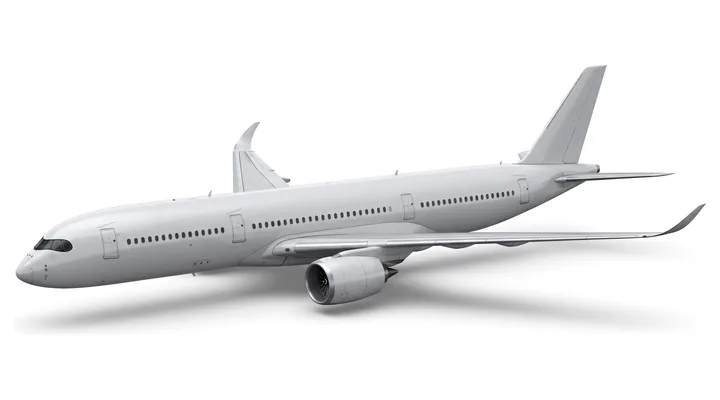
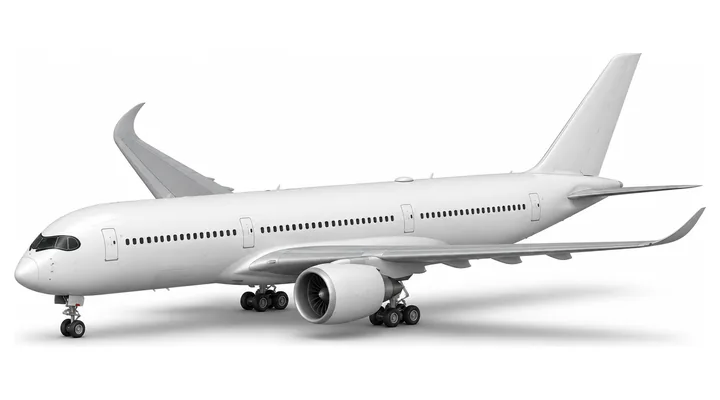
HQ 4.46.0: hide/show the menu; info boxes scroll; A350 picture with its wheels
Owner 11 Nov 18:58: "can the left hand menu be closable, with arrows to open it again";
19:01 "A floating plane" (the A350 picture had no landing gear; redone by the owner);
19:19 "I have to have my screen at 50% zoom to see it all on planes. Can all the click
to pop up info boxes have a scroll".
- A tab on the menu edge (wider screens) hides the menu so the map gets the whole
  width, and brings it back; remembered (localStorage tpa-menu-hidden). Phones keep
  their LAYERS menu.
- The box never grows past the top of the map: it scrolls inside, the close button
  stays in view (sticky), and it sits clear of the zoom buttons (PC and phone).
- New a350.webp (gear down).

Claude-Session: https://claude.ai/code/session_01NgCC8z8vDgBwHpiSMrLsLz

Changed region(s): [[0.0, 0.12, 0.9778, 0.87], [0.0917, 0.51, 0.1528, 0.54]]

diff --git a/v4/hq/assets/hq.css b/v4/hq/assets/hq.css
@@ -340,3 +340,20 @@ body.vector-ready .vector-map{z-index:4}
 /* 4.45.0: airport vehicles and towers - small, no frame (they only show close in) */
 .marker-layer .review-pin.air.k-ground{background:transparent;border:0;box-shadow:none;padding:0;width:28px;height:28px}
 .marker-layer .review-pin.air.k-ground .plane-pic{width:26px;height:26px;filter:drop-shadow(0 1px 2px #000a)}
+
+/* 4.46.0: hide / show the menu on wider screens (owner 11 Nov 18:58) */
+.menu-tab{position:absolute;left:0;top:50%;transform:translateY(-50%);z-index:1200;width:22px;height:64px;padding:0;border:1px solid #2a3b4c;border-left:0;
+  border-radius:0 9px 9px 0;background:#0d1a2ce8;color:#9fd8f0;font-size:12px;line-height:1;cursor:pointer;box-shadow:3px 0 12px #0006}
+.menu-tab:hover{background:#15283f;color:#fff}
+.menu-tab:focus-visible{outline:2px solid #fff;outline-offset:2px}
+@media(min-width:761px){.app.menu-hidden .sidebar{display:none}}
+@media(max-width:760px){.menu-tab{display:none}}
+
+/* 4.46.0 (owner 11 Nov 19:19: "I have to have my screen at 50% zoom to see it all on planes. Can all the click to pop up info
+   boxes have a scroll"): the box never grows past the top of the map - it scrolls inside, with the close button kept in view -
+   and on wider screens it sits clear of the zoom buttons. */
+.map-selection{max-height:calc(100% - 76px - 74px);overflow-y:auto;overscroll-behavior:contain;scrollbar-width:thin;scrollbar-color:#3b5a70 transparent}
+@media(min-width:761px){.map-selection{right:76px}}
+@media(max-width:760px){.map-selection{max-height:calc(100% - 60px - 128px);right:58px;max-width:min(330px,calc(100% - 68px))}}
+.map-selection>button[aria-label="Close target details"]{position:sticky;top:-8px;order:-1;align-self:flex-end;flex:0 0 auto;margin:-8px -8px -40px 0;
+  z-index:2;background:#0e2037;border:1px solid #365e72}

diff --git a/v4/hq/assets/hq.js b/v4/hq/assets/hq.js
@@ -1737,6 +1737,19 @@ paint();discover();beginMap();setInterval(discover,30000);
 setInterval(()=>{if(IDS.some(id=>state.live[id]&&!state.parked[id]&&state.status[id]!=='ready'))discover();},10000);
 loadSiteConfig();
 // 4.0.13: one place that opens/closes the phone layers menu and keeps the button state right.
+// 4.46.0 (owner 11 Nov 18:58: "can the left hand menu be closable, with arrows to open it again, it takes up a fair chunk of
+// the screen for those of us who like a screen with things moving about on it"): on wider screens a tab on the menu's edge hides
+// it (the map takes the whole width) and brings it back; remembered in this browser. Phones keep their own LAYERS menu.
+function setMenuHidden(hide,save){
+  const app=document.querySelector('.app');if(!app)return;app.classList.toggle('menu-hidden',hide);
+  const t=$('menu-tab');if(t){t.textContent=hide?'▶':'◀';t.setAttribute('aria-expanded',hide?'false':'true');
+    t.setAttribute('aria-label',hide?'Show the layers menu':'Hide the layers menu');t.title=hide?'Show the menu':'Hide the menu';}
+  if(save){try{localStorage.setItem('tpa-menu-hidden',hide?'1':'0');}catch(_){}}
+  if(map&&typeof map.invalidateSize==='function')map.invalidateSize({pan:false});
+  paint();}
+if($('menu-tab')){$('menu-tab').onclick=()=>setMenuHidden(!document.querySelector('.app').classList.contains('menu-hidden'),true);
+  let was=false;try{was=localStorage.getItem('tpa-menu-hidden')==='1';}catch(_){}
+  if(was)setMenuHidden(true,false);}
 function setMenu(open){$('sidebar').classList.toggle('open',open);$('menu-button').setAttribute('aria-expanded',open?'true':'false');}
 new MutationObserver(()=>$('menu-button').setAttribute('aria-expanded',$('sidebar').classList.contains('open')?'true':'false')).observe($('sidebar'),{attributes:true,attributeFilter:['class']});
 })();

diff --git a/v4/hq/index.html b/v4/hq/index.html
@@ -55,6 +55,7 @@
   </aside>
   <div class="sidebar-backdrop" id="sidebar-backdrop" aria-hidden="true"></div>
   <main class="map-section" aria-label="TPA HQ map area">
+    <button type="button" class="menu-tab" id="menu-tab" aria-controls="sidebar" aria-expanded="true" aria-label="Hide the layers menu" title="Hide the menu">◀</button>
     <div class="map-slot" id="map" role="application" aria-label="Interactive geographic UK basemap">
       <div id="vector-map" class="vector-map" aria-label="OpenFreeMap interactive vector streets"></div>
       <canvas id="geo-canvas" class="geo-canvas" aria-hidden="true"></canvas>
@@ -74,7 +75,7 @@
       <div class="glass-chip" id="road-chip"><span class="chip-dot teal"></span>ROAD: <strong>EMPTY</strong></div>
     </div>
     <div class="map-controls" aria-label="Map controls"><button type="button" id="zoom-in" title="Zoom in" aria-label="Zoom in">+</button><button type="button" id="zoom-out" title="Zoom out" aria-label="Zoom out">−</button></div>
-    <div class="map-bottom"><div class="preview-stamp">HQ 4.45.0 · TEST VERSION</div><div id="map-credit" class="map-credit">© OpenFreeMap · © OpenMapTiles · © OpenStreetMap contributors</div><div id="zoom-level">ZOOM 11</div></div>
+    <div class="map-bottom"><div class="preview-stamp">HQ 4.46.0 · TEST VERSION</div><div id="map-credit" class="map-credit">© OpenFreeMap · © OpenMapTiles · © OpenStreetMap contributors</div><div id="zoom-level">ZOOM 11</div></div>
     <div id="toast" class="toast hidden" role="status" aria-live="polite"></div>
   </main>
 </div>

diff --git a/v4/hq/serve_hq.py b/v4/hq/serve_hq.py
@@ -36,7 +36,7 @@ PLANE_BOX = ('a320','b737','b787','b777','a220','atr72','tutor','prefect','cessn
 PUBLIC = {'/', '/index.html', '/assets/hq.css', '/assets/tpa-theme.css', '/assets/hq.js', '/assets/tpa-basemap-loader.js', '/assets/transport-vector-layer.js', '/data/uk-geography.json', '/data/site-config.json', '/assets/geoff.jpg', '/user', '/kids', '/full', '/assets/kids-sounds.js'} | {'/assets/kids/'+f for f in ('bus-horn.mp3','bus-horn2.mp3','bus-engine.mp3','train-chuff.mp3','train-whistle.mp3','train-horn.mp3','train-track.mp3','plane-flyby.mp3','plane-takeoff.mp3','CREDITS.txt')} | {'/assets/icons/bus.webp', '/assets/icons/train.webp', '/assets/buses/bus.webp'} | {'/assets/buses/'+k+'.webp' for k in ('dd','sd','coach','mini')} | {'/assets/planes/box/'+k+'.webp' for k in PLANE_BOX} | {'/assets/planes/'+k+'.webp' for k in ('airliner','widebody','turboprop','bizjet','light','helicopter','cargo','fighter','glider','balloon','tanker','miltransport','milheli','surveillance','policeheli','policeplane','ambulanceheli','ambulanceplane','coastguardheli','coastguardplane','icon-emer','icon-gnd','icon-twr')} | {'/assets/trains/'+k+'.webp' for k in ('c800','c390','c43','c220','c150','c158','c170','c195','c345','c700','c755','c387','c66','c165','c777','c350','c385','c323','c185','c395','c380','c333','celectric','cdiesel')}   # 4.11.1: kids recordings   # 4.9.0: /user = the page as a standard user sees it   # 4.7.0: Geoff (owner's cat) on the welcome screen
 # 4.14.0 (owner 3 Nov 20:35: "more professional", its own look): TPA's own signage type, served from here (no outside requests)
 PUBLIC |= {'/assets/fonts/'+f for f in ('Barlow-Regular.woff','Barlow-Medium.woff','Barlow-SemiBold.woff','BarlowSemiCondensed-SemiBold.woff','BarlowSemiCondensed-Bold.woff','OFL.txt')}
-HQ_VERSION = '4.45.0'
+HQ_VERSION = '4.46.0'
 # 4.0.10: engines are separate programs on this PC. TPA_HQ_ENGINES maps a socket
 # to a loopback engine, e.g. "road=http://127.0.0.1:8782,bus=http://127.0.0.1:8781".
 # 4.13.1 (owner 3 Nov 16:00): or an engine on a PRIVATE network address (the bus engine on its own Ampere server).
